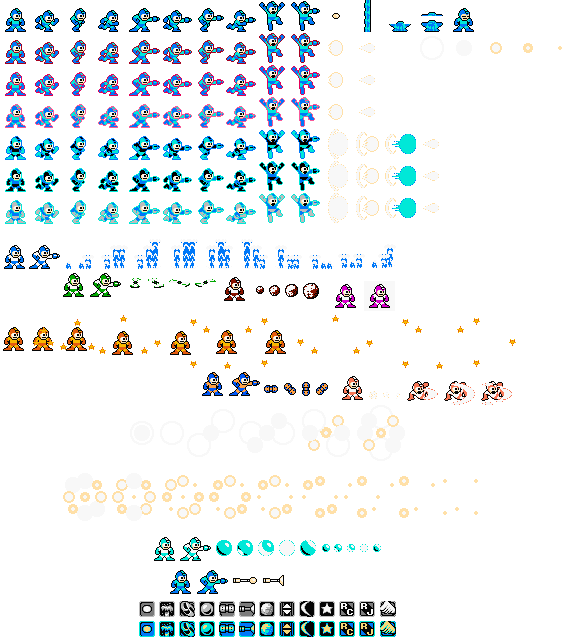
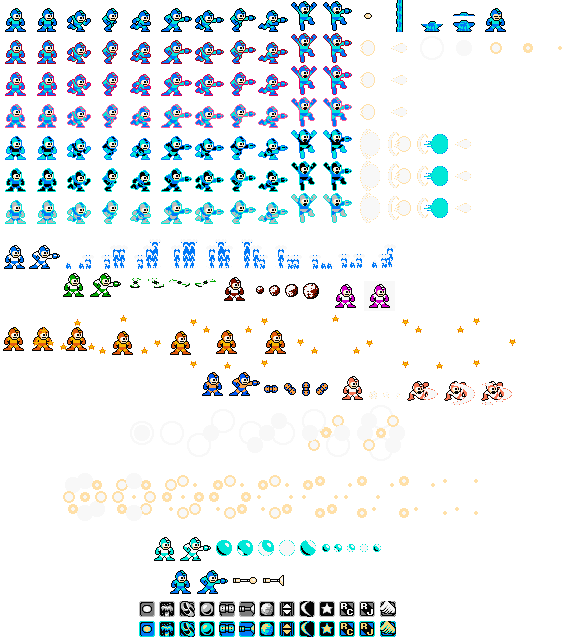
Added the knee bend for the first and last frame of walking animation. Shifted over all used frames in the animation sprite sheet by one, adding the new sprite as the second sprite for all states, charged included. Changed the updateWalk animation function to display the knee bend frame before disab

diff --git a/assets/scripts/classes/mega-man-animation.js b/assets/scripts/classes/mega-man-animation.js
@@ -9,7 +9,7 @@ export default class MegaManAnimation {
         charge: false,
     };
 
-    static maxIdleState = 400;
+    static maxIdleState = 150;
     static maxIdleFrames = 10; // max frames to be idle for
 
     static maxSpawnState = 20;
@@ -17,6 +17,7 @@ export default class MegaManAnimation {
 
     static maxWalkState = 30;
     static walkFramePause = 10; // 30 / 10 = 3 frames over 30 update calls
+    static kneeBendFrameLength = 5;
 
     static attackTimeout = 250; // Time (ms) before disabling attack animation
 
@@ -35,7 +36,6 @@ export default class MegaManAnimation {
         this.idleState = 0; // 0 - 1
         this.spawnState = 0; // 0 - (maxSpawnState - 1)
         this.walkState = 0; // 0 - (maxWalkState - 1)
-        this.jumpState = 0; // 0 - 1
         this.chargeState = 0; // 0 - (maxChargeState - 1)
     }
 
@@ -159,23 +159,49 @@ export default class MegaManAnimation {
     }
 
     /**
-     * Update the walk state property. Increment walkState until maxWalkState reached,
-     * then reset to 0. Displays a 3 frame animation for walking
+     * Update the walk state property. Start walkState at the knee bend frame length * -1,
+     * incrementing until 0 is reached, which then starts the 3 frame walking animation.
+     * Increment walkState until maxWalkState reached, then reset to 0
      * 
-     * @param {boolean} disable - Forcibly sets property to 0 if true
+     * @param {boolean} disable - Forcibly sets property to 0 if true after displaying the knee bend frame
+     * after some delay. If jumping, skip knee bend frame
      */
     updateWalk(disable = false) {
         this.activeStates.walk = !disable;
 
-        // Don't walk if already jumping
-        if (disable || this.jumpState > 0) {
-            this.walkState = 0;
+        // Don't walk if jumping
+        if (this.activeStates.jump) {
             this.style.setProperty('--walk-state', 0);
+            this.walkState = -MegaManAnimation.kneeBendFrameLength;
             this.updateIdle();
+            return;
+        }
+
+        // Display knee bend frame before disabling
+        if (disable) {
+            if (this.walkState > 0) {
+                this.walkState = -MegaManAnimation.kneeBendFrameLength;
+            }
+
+            if (this.walkState < 0) {
+                this.style.setProperty('--walk-state', 1);
+                ++this.walkState;
+                requestAnimationFrame(() => this.updateWalk(true));
+            } else {
+                this.style.setProperty('--walk-state', 0);
+                this.walkState = -MegaManAnimation.kneeBendFrameLength;
+                this.updateIdle();
+            }
+            return;
+        }
+
+        if (this.walkState < 0) {
+            this.style.setProperty('--walk-state', 1);
+            ++this.walkState;
         } else {
+            const currentWalkFrame = Math.floor(this.walkState / MegaManAnimation.walkFramePause);
+            this.style.setProperty('--walk-state', currentWalkFrame + 2); // Skip idle and knee bend frame
             this.walkState = (this.walkState + 1) % MegaManAnimation.maxWalkState;
-            this.style.setProperty('--walk-state',
-                Math.floor(this.walkState / MegaManAnimation.walkFramePause) + 1); // 1 - 3
         }
     }
 
@@ -188,14 +214,12 @@ export default class MegaManAnimation {
         this.activeStates.jump = !disable;
 
         if (disable) {
-            this.jumpState = 0;
             this.updateIdle();
+            this.style.setProperty('--jump-state', 0);
         } else {
             this.updateWalk(true);
-            this.jumpState = 1;
+            this.style.setProperty('--jump-state', 1);
         }
-
-        this.style.setProperty('--jump-state', this.jumpState);
     }
 
     /**
@@ -211,10 +235,12 @@ export default class MegaManAnimation {
             this.updateCharge(0);
             this.updateIdle();
             return;
-        } else if (this.jumpState > 0) {
-            this.style.setProperty('--attack-state', 1);
+        } else if (this.activeStates.jump) {
+            this.style.setProperty('--attack-state', 1); // Jumping + attacking
+        } else if (this.activeStates.walk) {
+            this.style.setProperty('--attack-state', 4); // Walking + attacking
         } else {
-            this.style.setProperty('--attack-state', 4);
+            this.style.setProperty('--attack-state', 5); // Idle, skip over knee bend frame
         }
 
         // Wait before disabling attack and charge animations

diff --git a/assets/styles/bullet.css b/assets/styles/bullet.css
@@ -6,7 +6,7 @@
     width: 32px;
     height: 32px;
     background-image: url('../images/megaman-animations.png');
-    background-position: -320px 0;
+    background-position: -352px 0;
     background-repeat: no-repeat;
 
     /* Position, Movement, and Scale */
@@ -22,11 +22,11 @@
 
 @keyframes lowChargeBullet {
     0% {
-        background-position: -320px -32px;
+        background-position: -352px -32px;
     }
 
     50% {
-        background-position: -352px -32px;
+        background-position: -384px -32px;
     }
 }
 
@@ -37,18 +37,18 @@
 
 @keyframes maxChargeBullet {
     0% {
-        background-position: -320px -128px;
-    }
-
-    25% {
         background-position: -352px -128px;
     }
 
-    50% {
+    25% {
         background-position: -384px -128px;
     }
 
-    75% {
+    50% {
         background-position: -416px -128px;
+    }
+
+    75% {
+        background-position: -448px -128px;
     }
 }

diff --git a/assets/styles/mega-man.css b/assets/styles/mega-man.css
@@ -36,13 +36,13 @@
 /* Animation */
 
 .mega-man.spawn-animation-state {
-    background-position: -352px 0px;
+    background-position: -384px 0px;
     animation: spawnAnimation 0.1s steps(1, end) infinite;
 }
 
 @keyframes spawnAnimation {
     0% {
-        background-position: calc(-352px + (var(--spawn-state) * -32px)) 0px;
+        background-position: calc(-384px + (var(--spawn-state) * -32px)) 0px;
     }
 }
 
@@ -54,6 +54,6 @@
 
 @keyframes baseAnimation {
     0% {
-        background-position: calc(((var(--idle-state) * 14) + var(--walk-state) + (var(--jump-state) * 8) + var(--attack-state)) * -32px) calc(var(--charge-state) * -32px);
+        background-position: calc(((var(--idle-state) * 15) + var(--walk-state) + (var(--jump-state) * 9) + var(--attack-state)) * -32px) calc(var(--charge-state) * -32px);
     }
 }

diff --git a/assets/scripts/classes/mega-man.js b/assets/scripts/classes/mega-man.js
@@ -274,11 +274,10 @@ export default class MegaMan {
      * Set fall conditions and animation
      */
     enableFalling() {
-        this.animationController.updateWalk(true);
-        this.animationController.updateAttack(true);
-
         this.grounded = false;
         this.animationController.updateJump();
+        this.animationController.updateWalk(true);
+        this.animationController.updateAttack(true);
     }
 
     /**
